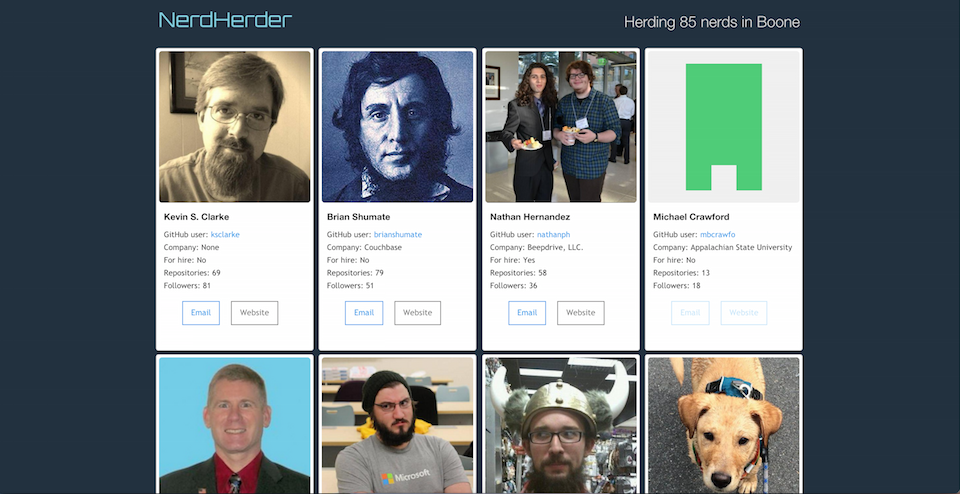
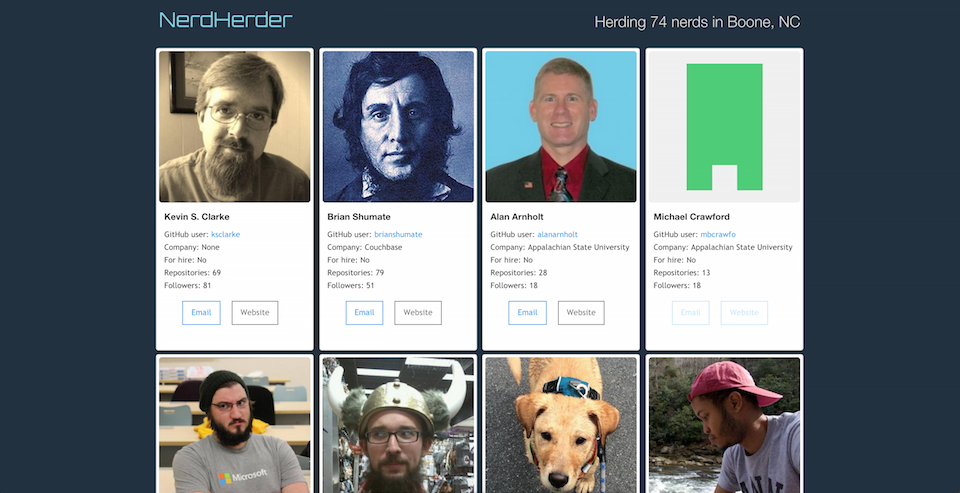
oops

diff --git a/README.md b/README.md
@@ -32,7 +32,7 @@ npm link
 Simple usage example:
 
 ```
-nerdherder <GitHub_API_token> Boone
+nerdherder <GitHub_API_token> 'Boone, NC'
 ```
 
 This will herd nerds, build a static website in the `./build` directory and
